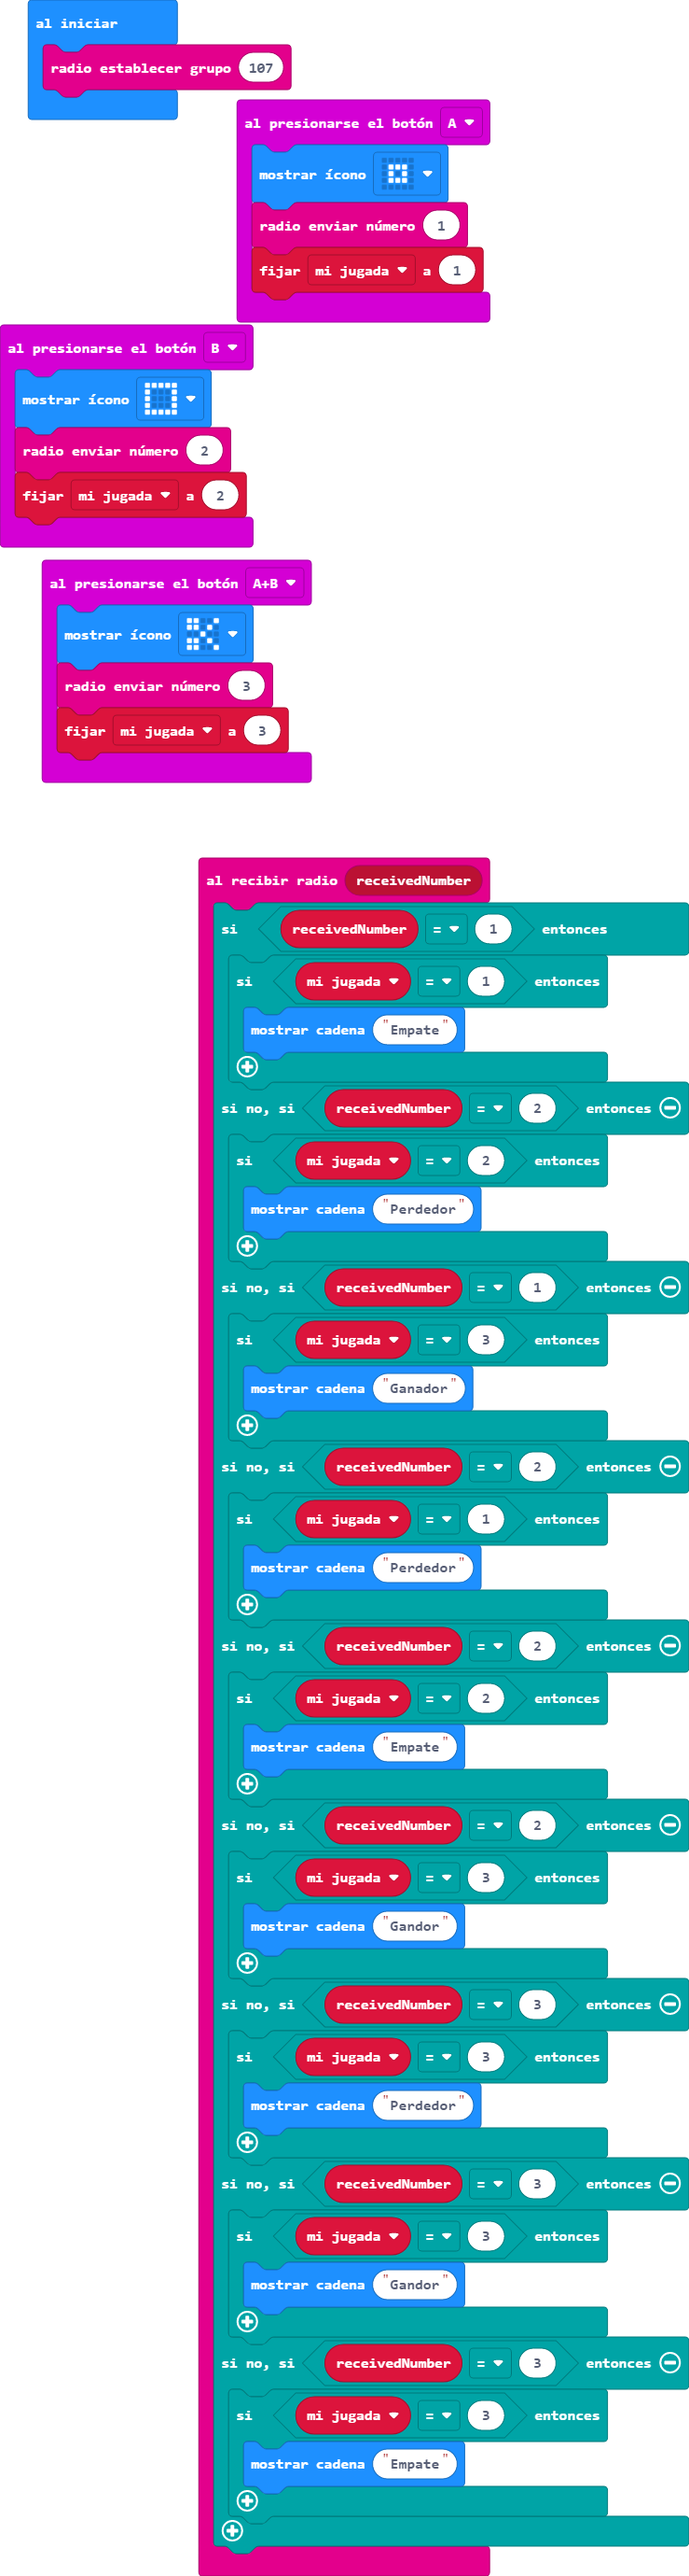
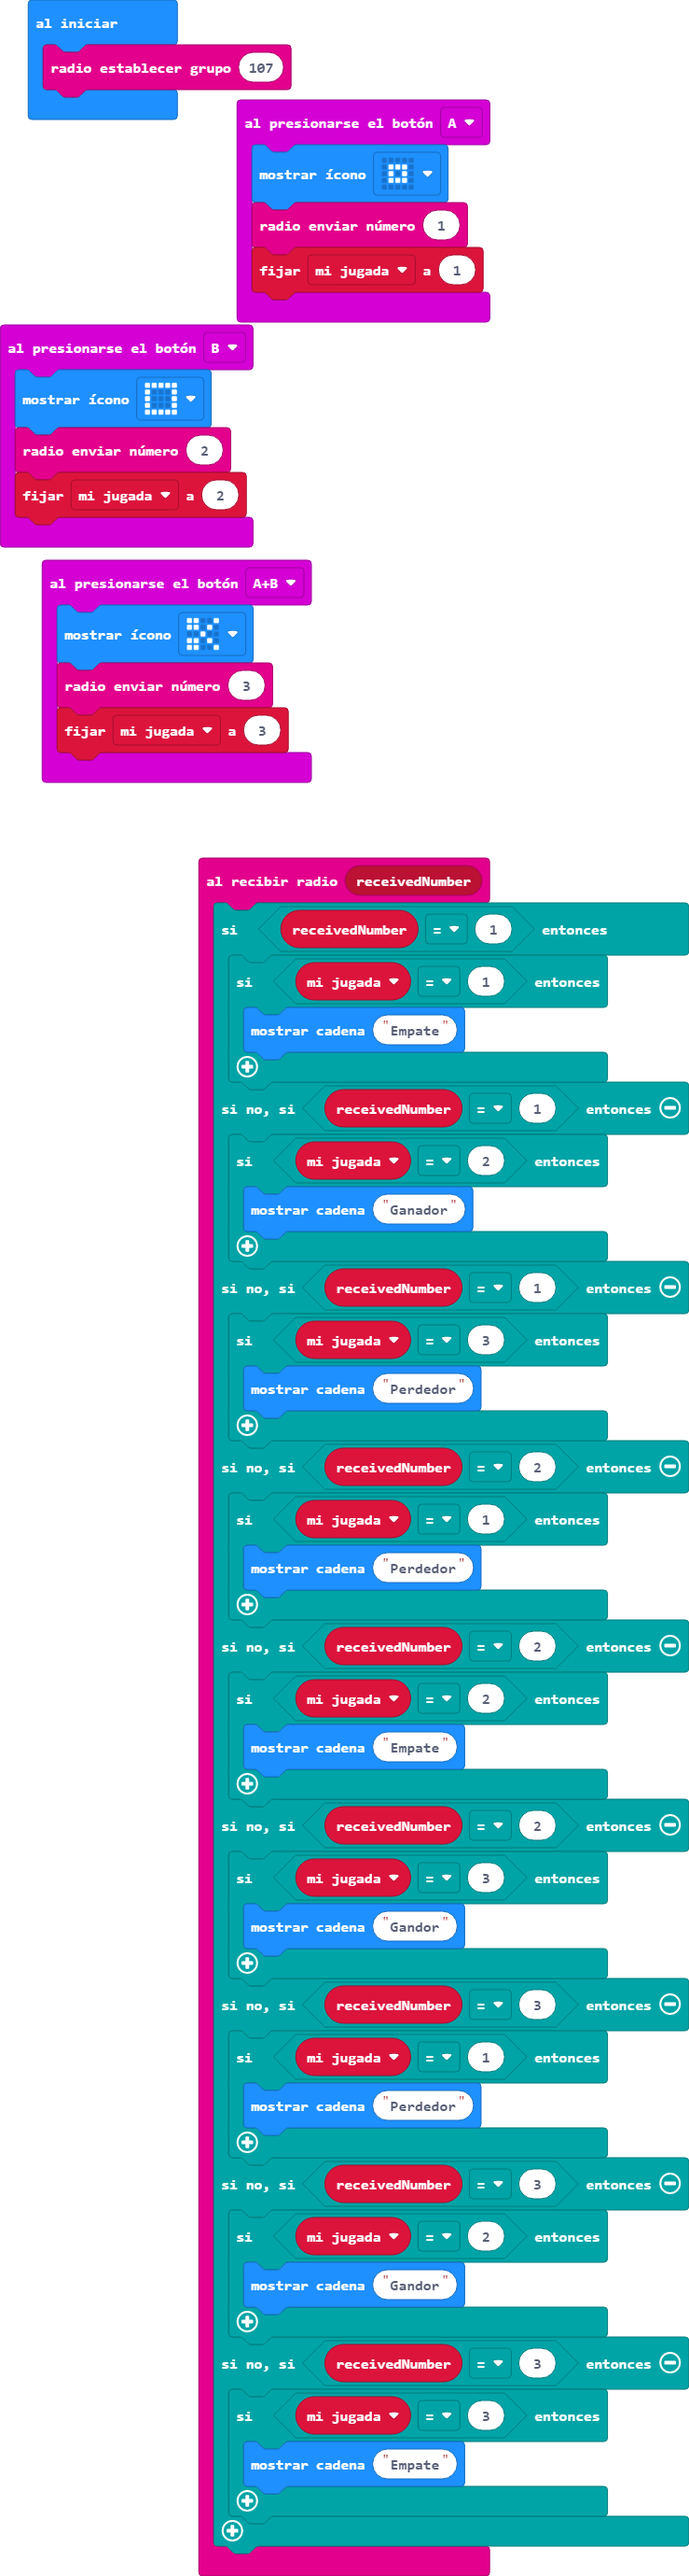
Actualizar main.blocks, main.ts

diff --git a/main.ts b/main.ts
@@ -3,13 +3,13 @@ radio.onReceivedNumber(function (receivedNumber) {
         if (mi_jugada == 1) {
             basic.showString("Empate")
         }
-    } else if (receivedNumber == 2) {
+    } else if (receivedNumber == 1) {
         if (mi_jugada == 2) {
-            basic.showString("Perdedor")
+            basic.showString("Ganador")
         }
     } else if (receivedNumber == 1) {
         if (mi_jugada == 3) {
-            basic.showString("Ganador")
+            basic.showString("Perdedor")
         }
     } else if (receivedNumber == 2) {
         if (mi_jugada == 1) {
@@ -24,11 +24,11 @@ radio.onReceivedNumber(function (receivedNumber) {
             basic.showString("Gandor")
         }
     } else if (receivedNumber == 3) {
-        if (mi_jugada == 3) {
+        if (mi_jugada == 1) {
             basic.showString("Perdedor")
         }
     } else if (receivedNumber == 3) {
-        if (mi_jugada == 3) {
+        if (mi_jugada == 2) {
             basic.showString("Gandor")
         }
     } else if (receivedNumber == 3) {
